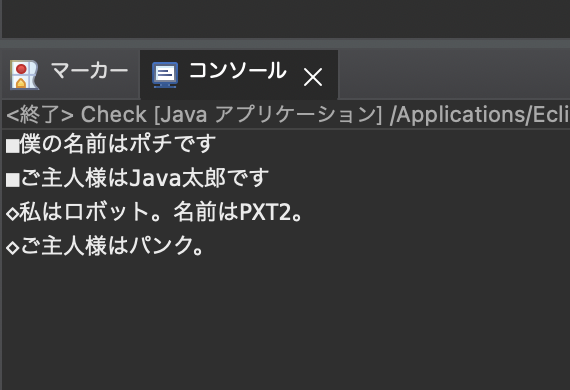
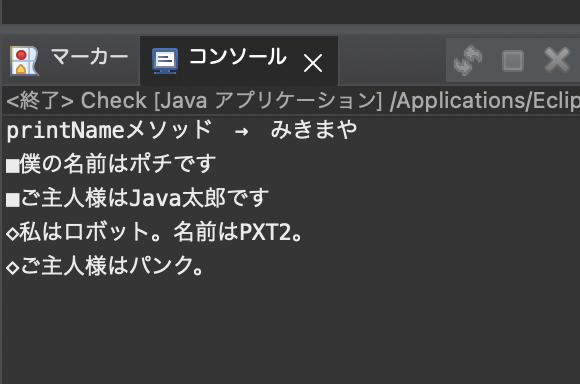
Check2

Changed region(s): [[0.0, 0.0625, 1.0, 0.7188]]

diff --git a/curriculum/JavaStudy/Check2/src/check/Check.java b/curriculum/JavaStudy/Check2/src/check/Check.java
@@ -1,16 +1,23 @@
 package check;
 
 import constants.Constants;
-
 public class Check {
+    private static String firstName = "みき";
+    private static String lastName = "まや";
+    
+    private static void printName(String firstName, String lastName) {
+        System.out.println("フルネームは：" + firstName + " " + lastName);
+    }
+
     public static void main(String[] args) {
         Pet pet = new Pet(Constants.CHECK_CLASS_JAVA, "Java太郎");
+        System.out.println("printNameメソッド　→　" + firstName + lastName );
         System.out.println("■僕の名前は" + pet.getName() + "です");
         System.out.println("■ご主人様は" + pet.getMasterName() + "です");
 
         RobotPet robotPet = new RobotPet(Constants.CHECK_CLASS_R2D2, "パンク");
         System.out.println("◇私はロボット。名前は" + robotPet.getName() + "。");
         System.out.println("◇ご主人様は" + robotPet.getMasterName() + "。");
+
     }
 }
-
